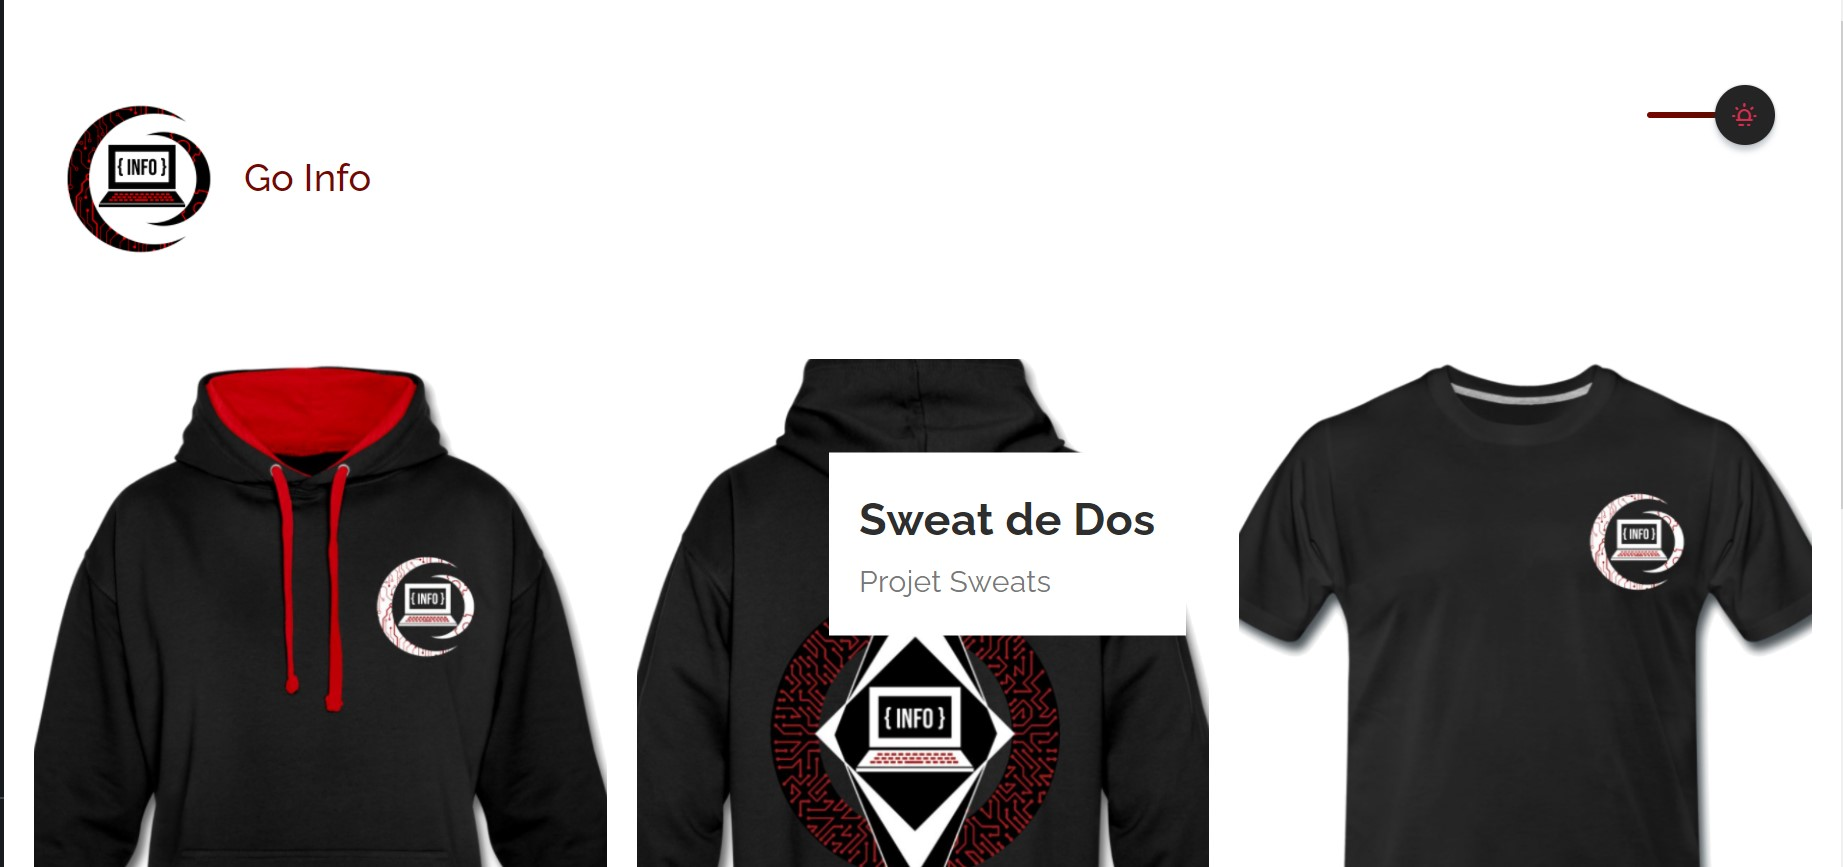
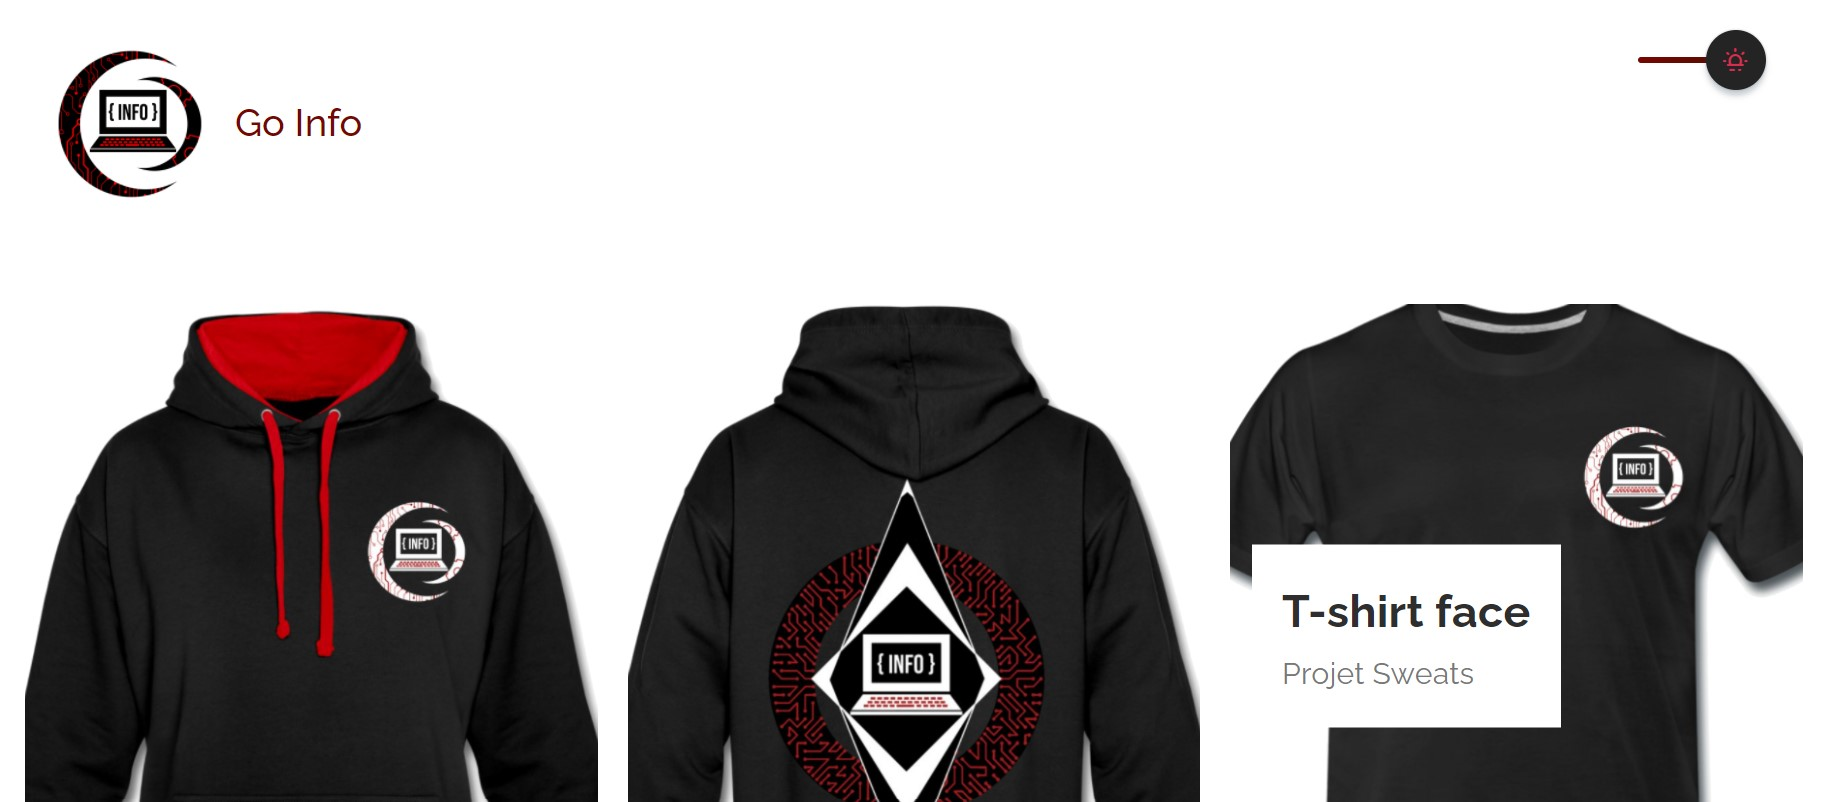
proj sweats

diff --git a/Portfolio/Pages/Projets_Competences/html/projets.html b/Portfolio/Pages/Projets_Competences/html/projets.html
@@ -129,9 +129,51 @@
     </ul>
     <div class="card-body">
       <a href="https://github.com/GeanyDuMal/Website_AEDI" class="card-link" target="blank">GitHub</a>
+      <a href="https://www.linkedin.com/company/go-info" class="card-link" target="blank">LinkedIn</a>
+      <a href="https://color.adobe.com/fr/GoInfo-color-theme-19176535" class="card-link" target="blank">Couleurs
+        utilisées</a>
     </div>
     <div class="card-footer text-muted">
       2ème Année DUT Informatique
+    </div>
+  </div>
+  <!-- End Card -->
+
+
+  <!-- Card -->
+  <div class="card">
+    <h3 class="card-header bebas">Projet Sweats</h3>
+    <div class="card-body">
+      <h5 class="card-title">Sweats T-shirts et Site Vitrine</h5>
+      <h6 class="card-subtitle text-muted">HTML CSS JS</h6>
+    </div>
+    <img src="../img/go-info.jpg" alt="go info screen">
+    <div class="card-body">
+      <p class="card-text">
+        <li>Réalisation de 2 logos</li>
+        <li>Réalisation d'affiches publicitaires</li>
+        <li>Réalisation d'un site vitrine</li>
+        <li>Gestion de la page / LinkedIn</li>
+      </p>
+    </div>
+    <ul class="list-group list-group-flush">
+      <li class="list-group-item">Compétences :</li>
+      <li class="list-group-item">HTML</li>
+      <li class="list-group-item">CSS</li>
+      <li class="list-group-item">JS</li>
+      <li class="list-group-item">Photoshop</li>
+      <li class="list-group-item">Illustrator</li>
+      <li class="list-group-item">Canva</li>
+    </ul>
+    <div class="card-body">
+      <a href="https://github.com/AyatoKirishima/GoInfo_DUT_2A" class="card-link" target="blank">GitHub</a>
+      <a href="https://go-info.netlify.app" class="card-link" target="blank">Site Web</a>
+      <a href="https://www.linkedin.com/company/go-info" class="card-link" target="blank">LinkedIn</a>
+      <a href="https://color.adobe.com/fr/GoInfo-color-theme-19176535" class="card-link" target="blank">Couleurs
+        utilisées</a>
+    </div>
+    <div class="card-footer text-muted">
+      1ère Année DUT Informatique
     </div>
   </div>
   <!-- End Card -->
@@ -161,6 +203,8 @@
     </ul>
     <div class="card-body">
       <a href="https://github.com/WhatANiceDayToCode/Blog-Project" class="card-link" target="blank">GitHub</a>
+      <a href="https://color.adobe.com/fr/Projet_PHP-color-theme-18864612" class="card-link" target="blank">Couleurs
+        utilisées</a>
     </div>
     <div class="card-footer text-muted">
       2ème Année DUT Informatique
